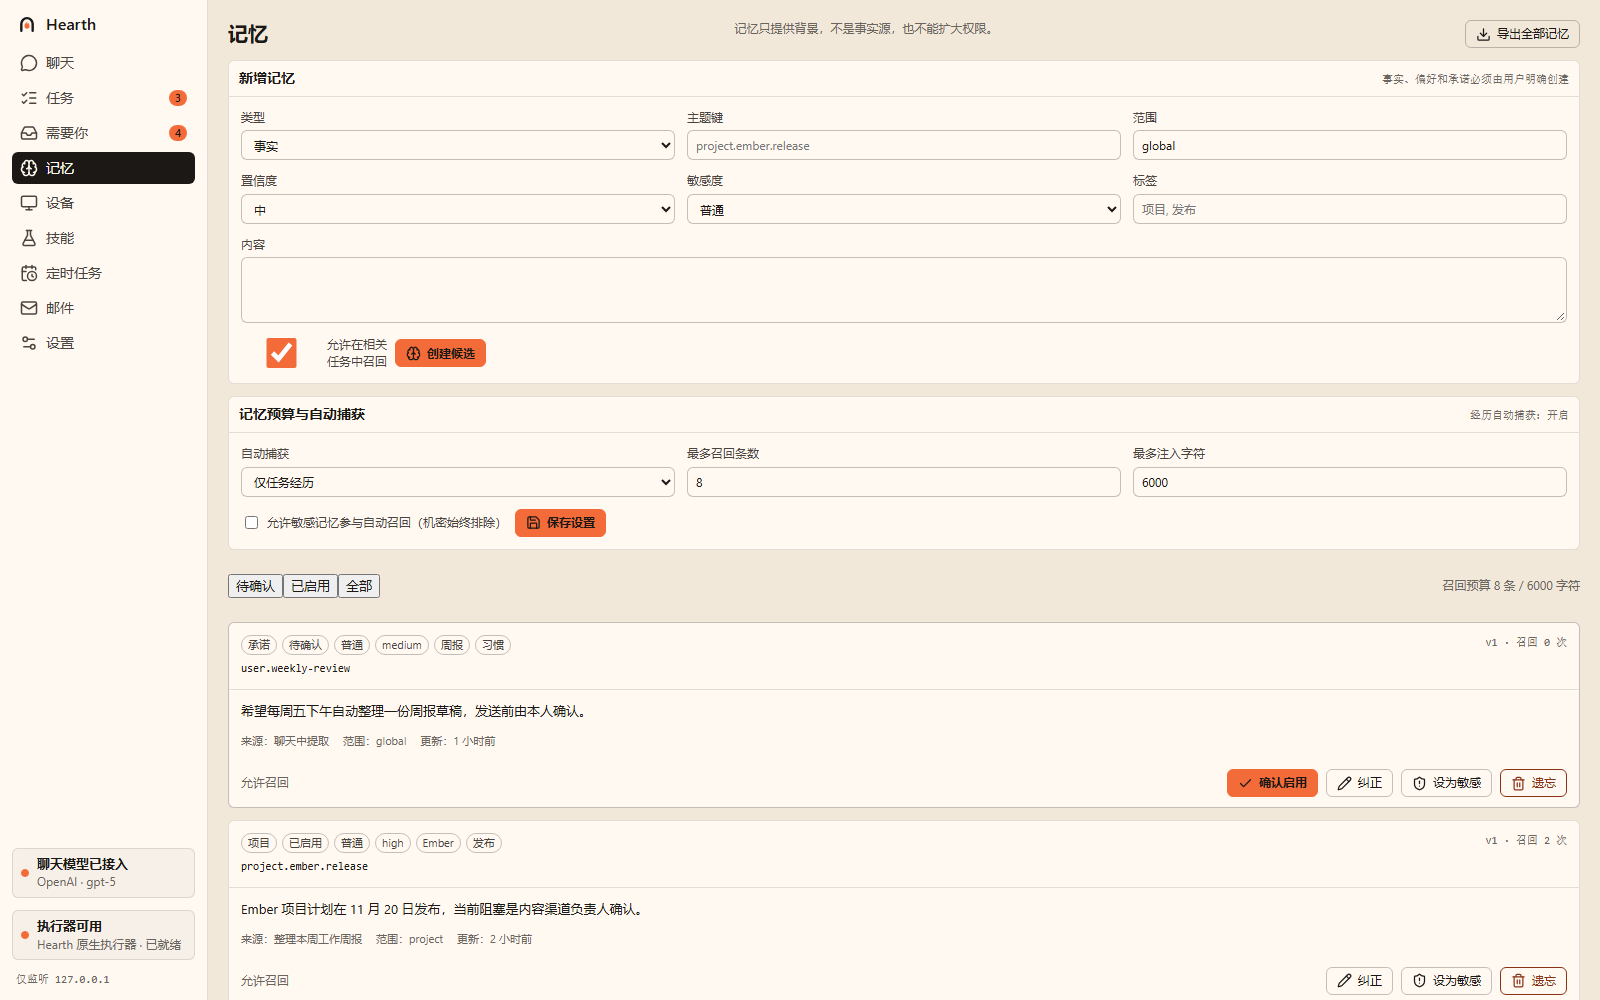
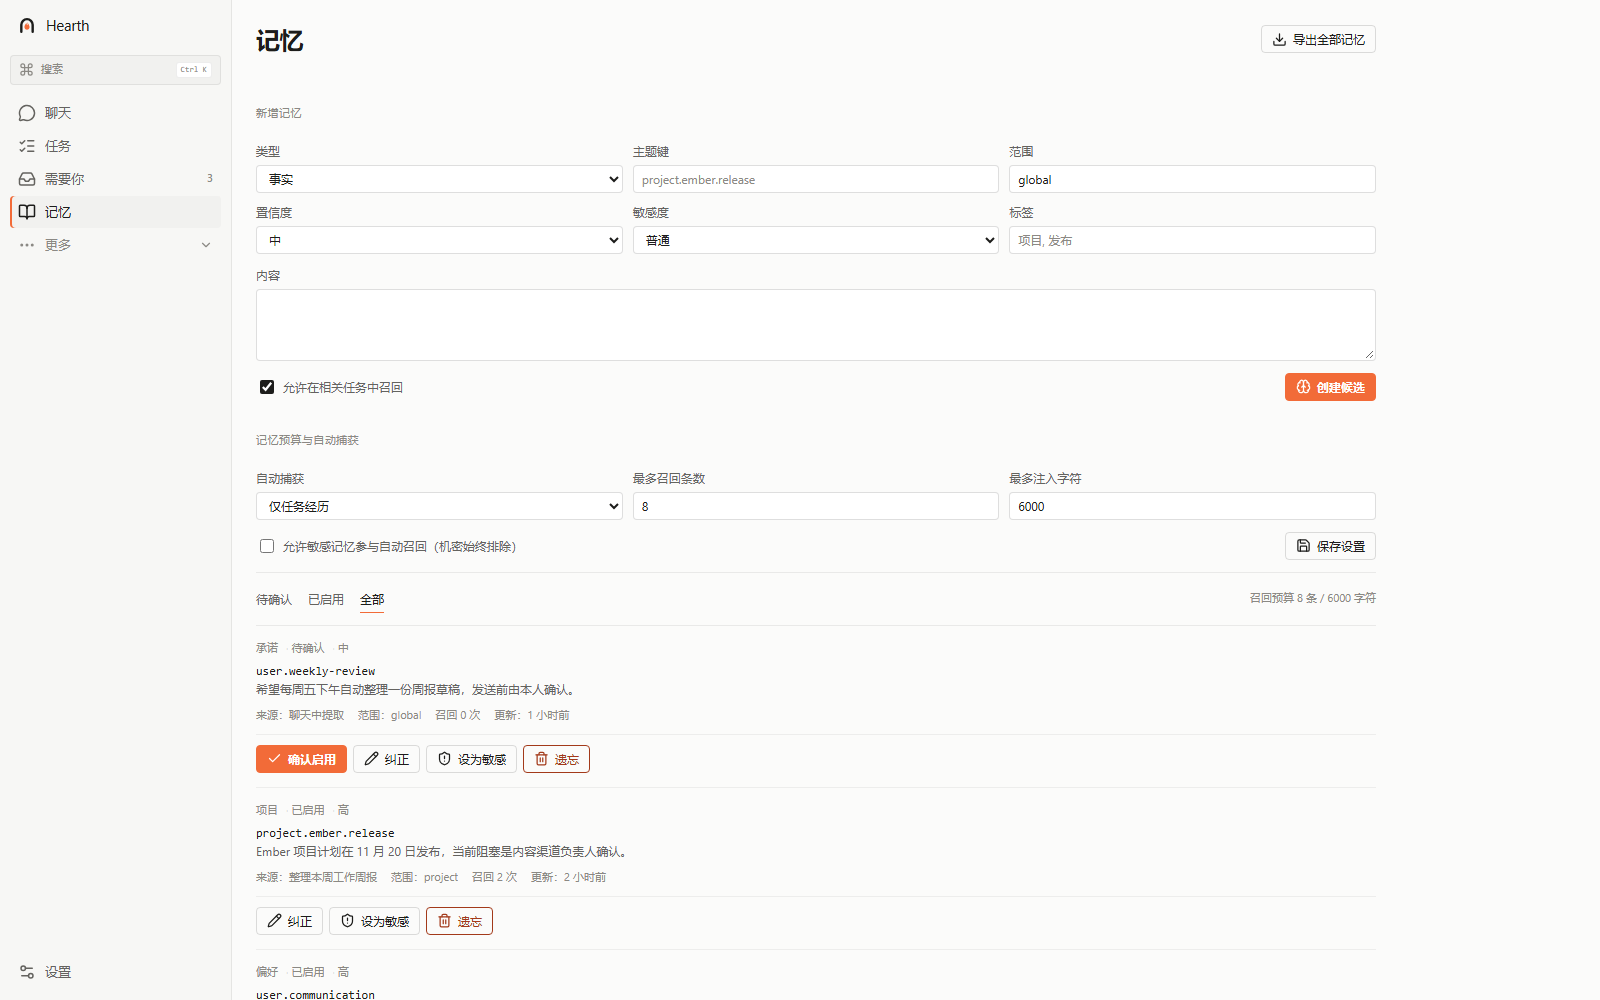
docs(web): refresh README screenshots and UI captions
- Recapture six primary UI screenshots against the current interface.
- Sync captions in README, the Chinese homepage, and the English homepage; no product copy changes.
- Verified: screenshots:readme; docs:build with Git on PATH.

diff --git a/docs/en/index.md b/docs/en/index.md
@@ -50,7 +50,7 @@ hero:
     <img src="/screenshots/chat.png" alt="Hearth chat workspace">
     <figcaption>
       <strong>Chat workspace</strong>
-      <span>One intent becomes a task proposal; executor, stage, tokens, duration, and approval actions stay in context.</span>
+      <span>One intent moves work forward; progress, results, and artifacts appear in place.</span>
     </figcaption>
   </figure>
 
@@ -59,35 +59,35 @@ hero:
       <img src="/screenshots/tasks.png" alt="Task list">
       <figcaption>
         <strong>Task list</strong>
-        <span>Running, waiting for approval, completed, and attention-needed work in one view.</span>
+        <span>Running, waiting for confirmation, and completed work read in one line.</span>
       </figcaption>
     </figure>
     <figure class="screenshot-card">
       <img src="/screenshots/task-detail.png" alt="Task detail">
       <figcaption>
         <strong>Task detail</strong>
-        <span>Goal, acceptance criteria, executor, budget, evidence, artifacts, and final result remain on record.</span>
+        <span>Result first; original request, execution trace, and deliverables open on demand.</span>
       </figcaption>
     </figure>
     <figure class="screenshot-card">
       <img src="/screenshots/inbox.png" alt="Proactive inbox">
       <figcaption>
         <strong>Needs you</strong>
-        <span>Proactive suggestions can be accepted, ignored, snoozed, or converted into tasks.</span>
+        <span>One line per suggestion; evidence and actions appear when expanded.</span>
       </figcaption>
     </figure>
     <figure class="screenshot-card">
       <img src="/screenshots/memory.png" alt="Memory management">
       <figcaption>
         <strong>Memory</strong>
-        <span>Candidates, recall, correction, conflict, forgetting, and export all have explicit boundaries.</span>
+        <span>Capture, budget, pending candidates, and recent recall on one page.</span>
       </figcaption>
     </figure>
     <figure class="screenshot-card screenshot-card--wide">
       <img src="/screenshots/settings.png" alt="Settings and executors">
       <figcaption>
         <strong>Settings and executors</strong>
-        <span>Model profiles, executor installation, health checks, protocol compatibility, and default routing in one place.</span>
+        <span>Navigation on the left; model bindings, health, and configuration in one right column.</span>
       </figcaption>
     </figure>
   </div>

diff --git a/docs/index.md b/docs/index.md
@@ -50,7 +50,7 @@ hero:
     <img src="/screenshots/chat.png" alt="Hearth 聊天工作台">
     <figcaption>
       <strong>聊天工作台</strong>
-      <span>一句意图生成任务提案；执行器、阶段、Token、耗时和审批入口就地展开。</span>
+      <span>一句意图推进任务；进度、结果与产物就地出现。</span>
     </figcaption>
   </figure>
 
@@ -59,35 +59,35 @@ hero:
       <img src="/screenshots/tasks.png" alt="任务列表">
       <figcaption>
         <strong>任务列表</strong>
-        <span>运行中、等待审批、已完成与需要处理的任务一屏可读。</span>
+        <span>运行中、等待确认与已完成的任务一行读完。</span>
       </figcaption>
     </figure>
     <figure class="screenshot-card">
       <img src="/screenshots/task-detail.png" alt="任务详情">
       <figcaption>
         <strong>任务详情</strong>
-        <span>目标、验收条件、执行器、预算、证据、产物与最终结果完整留档。</span>
+        <span>结果在前，原始需求、执行过程与交付文件按需展开。</span>
       </figcaption>
     </figure>
     <figure class="screenshot-card">
       <img src="/screenshots/inbox.png" alt="主动收件箱">
       <figcaption>
         <strong>需要你</strong>
-        <span>主动建议进入收件箱，可以接受、忽略、稍后提醒或转为任务。</span>
+        <span>每条建议一行；展开后才是证据与操作。</span>
       </figcaption>
     </figure>
     <figure class="screenshot-card">
       <img src="/screenshots/memory.png" alt="记忆管理">
       <figcaption>
         <strong>记忆</strong>
-        <span>记忆候选、召回、纠正、冲突、遗忘与导出都有明确边界。</span>
+        <span>新增、预算、待确认与最近召回都在同一页。</span>
       </figcaption>
     </figure>
     <figure class="screenshot-card screenshot-card--wide">
       <img src="/screenshots/settings.png" alt="设置与执行器">
       <figcaption>
         <strong>设置与执行器</strong>
-        <span>统一管理模型档案、执行器安装、健康检测、协议兼容与默认路由。</span>
+        <span>左侧只做分区；模型绑定、健康状态与配置都在右侧一栏。</span>
       </figcaption>
     </figure>
   </div>
